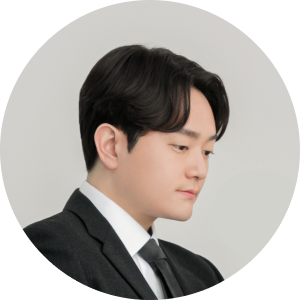
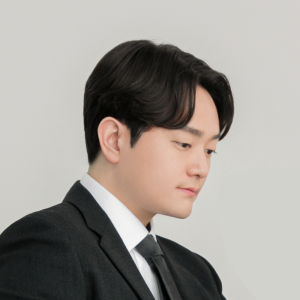
✨ Feat: profile img

diff --git a/src/components/screens/About.tsx b/src/components/screens/About.tsx
@@ -10,7 +10,7 @@ function PageAbout() {
       <Head title={"About"}></Head>
       <div className="flex flex-col max-w-[780px] w-full h-screen px-6 sm:px-10 lg:py-0 pt-12">
         <div className="flex flex-col sm:flex-row mt-16 place-items-center">
-          <div className="avatar w-[150px] h-[150px] rounded-full mb-10 sm:mb-0">
+          <div className="avatar w-[150px] h-[150px] rounded-full mb-4 sm:mb-0 overflow-hidden">
             <img
               src="/me.png"
               width={150}
@@ -20,26 +20,26 @@ function PageAbout() {
             />
           </div>
           <div className="flex flex-col flex-1 sm:ml-10 justify-center place-items-center sm:place-items-start">
-            <h3 className="text-xl font-bold">Drew Lee</h3>
-            <p className="text-sm mt-2 mb-4 font-medium leading-[1.6] text-center sm:text-left">
+            <h3 className="text-2xl sm:text-xl font-bold">Drew Lee</h3>
+            <p className="text-sm mt-3 sm:mt-2 mb-4 font-medium leading-[1.6] text-center sm:text-left">
               프론트엔드 개발자입니다. 시각디자인을 전공하고 잠시 디자이너로
-              일하다가 개발자가 되었습니다. 여기저기 관심이 많아서 새롭게
-              무언가를 배우는 것을 좋아합니다. 최근에는 대학원에서 컴퓨터 및
-              AI/ML 관련 분야를 공부 중입니다.
+              일하다가 개발자가 되었습니다. 항상 새롭게 무언가를 배우는 것을
+              좋아합니다. 최근에는 대학원에서 컴퓨터 및 AI/ML 관련 분야를 공부
+              중입니다.
               <br />
             </p>
-            <div className="flex gap-2 place-items-center">
+            <div className="flex mt-4 sm:mt-0 gap-3 sm:gap-2 place-items-center">
               <Link
                 to="https://www.linkedin.com/in/seoyong-lee/"
                 target="_blank"
               >
-                <FaLinkedin className="w-6 h-6 hover:opacity-50" />
+                <FaLinkedin className="w-8 h-8 sm:w-6 sm:h-6 hover:opacity-50" />
               </Link>
               <Link to="https://github.com/seoyong-lee" target="_blank">
-                <FaGithub className="w-6 h-6 hover:opacity-50" />
+                <FaGithub className="w-8 h-8 sm:w-6 sm:h-6  hover:opacity-50" />
               </Link>
               <Link to="mailto:sy3783@gmail.com">
-                <MdEmail className="w-[1.6rem] h-[1.6rem] hover:opacity-50" />
+                <MdEmail className="w-[2rem] h-[2rem] sm:w-[1.6rem] sm:h-[1.6rem] hover:opacity-50" />
               </Link>
             </div>
           </div>

diff --git a/src/components/shared/Footer.tsx b/src/components/shared/Footer.tsx
@@ -1,8 +1,10 @@
 const Footer = () => {
   return (
-    <footer className="footer w-full footer-center p-6 bg-base-200 text-base-content">
+    <footer className="footer w-full sm:footer-center p-6 bg-base-200 text-base-content ">
       <aside>
-        <p>Copyright © 2023 - All right reserved by Drew Lee</p>
+        <p className="text-[12px] sm:text-base">
+          Copyright © 2023 - All right reserved by Drew Lee
+        </p>
       </aside>
     </footer>
   );

diff --git a/src/components/shared/Layout.tsx b/src/components/shared/Layout.tsx
@@ -31,7 +31,7 @@ const Layout = () => {
 
   return (
     <Theme dataTheme={theme}>
-      <div className="w-full h-full flex flex-col place-items-center">
+      <div className="w-full h-full flex flex-col place-items-center overflow-x-hidden">
         <Header />
         <Outlet />
         <Footer />
